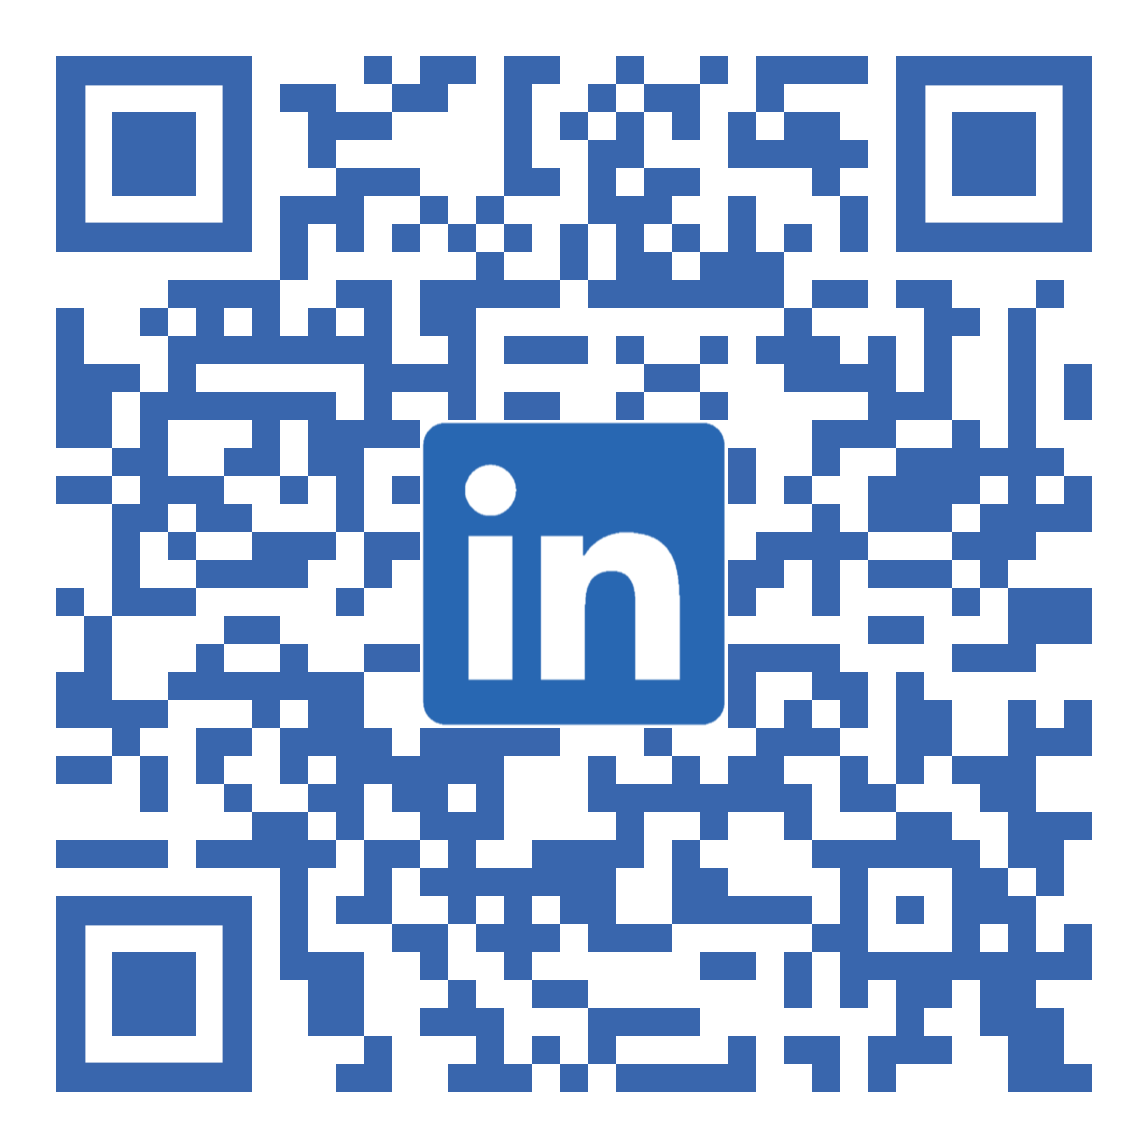
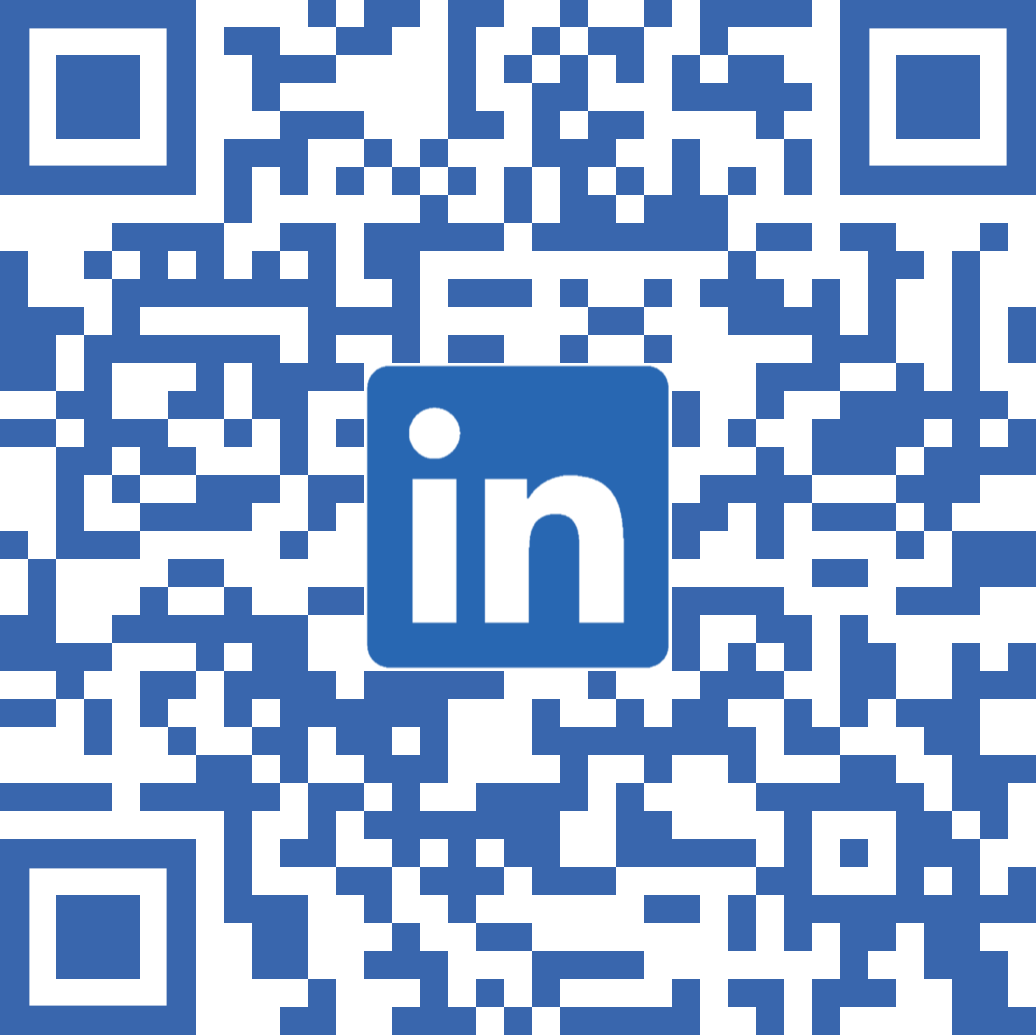
adding feedback slide

diff --git a/sag-2026/index.html b/sag-2026/index.html
@@ -1,5 +1,5 @@
 
-<!-- Do not edit by hand! Generated by Hotspot on 2026-11-11T10:45:22.504+01:00. Edit the source XML document instead! --><!DOCTYPE html
+<!-- Do not edit by hand! Generated by Hotspot on 2026-11-11T19:04:30.033+01:00. Edit the source XML document instead! --><!DOCTYPE html
   PUBLIC "-//W3C//DTD XHTML 1.0 Transitional//EN" "http://www.w3.org/TR/xhtml1/DTD/xhtml1-transitional.dtd">
 <html xmlns="http://www.w3.org/1999/xhtml">
    <head>
@@ -54,7 +54,8 @@
       <link rel="bookmark" href="javascript:Kilauea.instances[0].showSlide(31)" title="How Much Is Left to the Model?" />
       <link rel="bookmark" href="javascript:Kilauea.instances[0].showSlide(32)" title="Solution Architecture Is Only Part of It" />
       <link rel="bookmark" href="javascript:Kilauea.instances[0].showSlide(34)" title="Monday Tasks" />
-      <link rel="bookmark" href="javascript:Kilauea.instances[0].showSlide(35)" title="Thank You!" />
+      <link rel="bookmark" href="javascript:Kilauea.instances[0].showSlide(35)" title="Please Rate This Session" />
+      <link rel="bookmark" href="javascript:Kilauea.instances[0].showSlide(36)" title="Thank You!" />
       <link rel="alternate" href="sag.xml" title="XML" />
       <link rel="help" title="Quick Help" href="javascript:Kilauea.instances[0].help()" /><script type="text/javascript" src="hotspot/kilauea/kilauea.js"></script><script type="text/javascript">Kilauea.init({'#body': {titleSeparator: ' ; ', settings: {showToolbar: true, coupleFooter: true, stackBackgrounds: true}, plugins: {touch: {}}}});</script></head>
    <body>
@@ -169,7 +170,9 @@
                <ul>
                   <li class="slide-entry"><span class="slidenum">35</span>Monday Tasks
                   </li>
-                  <li class="slide-entry"><span class="slidenum">36</span>Thank You!
+                  <li class="slide-entry"><span class="slidenum">36</span>Please Rate This Session
+                  </li>
+                  <li class="slide-entry"><span class="slidenum">37</span>Thank You!
                   </li>
                </ul>
             </li>
@@ -202,7 +205,7 @@
                </li>
                <li><a href="#moving-the-line" title="go to part &#34;Moving the Line&#34;">Moving the Line</a> [2]
                </li>
-               <li><a href="#conclusions" title="go to part &#34;Conclusions&#34;">Conclusions</a> [2]
+               <li><a href="#conclusions" title="go to part &#34;Conclusions&#34;">Conclusions</a> [3]
                </li>
             </ol>
          </div>
@@ -309,7 +312,7 @@
                </li>
                <li><a href="#moving-the-line" title="go to part &#34;Moving the Line&#34;">Moving the Line</a> [2]
                </li>
-               <li><a href="#conclusions" title="go to part &#34;Conclusions&#34;">Conclusions</a> [2]
+               <li><a href="#conclusions" title="go to part &#34;Conclusions&#34;">Conclusions</a> [3]
                </li>
             </ol>
          </div>
@@ -444,7 +447,7 @@
                <li class="expand outline-current">A Small Experiment [13]</li>
                <li><a href="#moving-the-line" title="go to part &#34;Moving the Line&#34;">Moving the Line</a> [2]
                </li>
-               <li><a href="#conclusions" title="go to part &#34;Conclusions&#34;">Conclusions</a> [2]
+               <li><a href="#conclusions" title="go to part &#34;Conclusions&#34;">Conclusions</a> [3]
                </li>
             </ol>
          </div>
@@ -684,7 +687,7 @@ content:
                <li><a href="#experiment" title="go to part &#34;A Small Experiment&#34;">A Small Experiment</a> [13]
                </li>
                <li class="expand outline-current">Moving the Line [2]</li>
-               <li><a href="#conclusions" title="go to part &#34;Conclusions&#34;">Conclusions</a> [2]
+               <li><a href="#conclusions" title="go to part &#34;Conclusions&#34;">Conclusions</a> [3]
                </li>
             </ol>
          </div>
@@ -725,7 +728,7 @@ content:
                </li>
                <li><a href="#moving-the-line" title="go to part &#34;Moving the Line&#34;">Moving the Line</a> [2]
                </li>
-               <li class="expand outline-current">Conclusions [2]</li>
+               <li class="expand outline-current">Conclusions [3]</li>
             </ol>
          </div>
          <div class="slide" id="monday">
@@ -742,6 +745,15 @@ content:
                <li>Modularize by subproblem, so that you can move the line later</li>
                <li>Invest in the APIs and data that everything else has to reach</li>
             </ul><br /><br /></div>
+         <div class="slide" id="feedback">
+            <div class="printheader only-media-print">
+               			<span class="part">Conclusions</span>
+               			<span class="author"><span class="vcard"><span class="fn n"><span class="given-name">Erik</span> <span class="family-name">Wilde</span></span></span>: </span>
+               			<span class="presentation">Composable Architecture for AI Systems: APIs, MCP, Skills, Sub-Agents, and Workflows</span> 
+               		
+            </div>
+            <h1><span class="only-media-print printslidenum">(36)</span> Please Rate This Session
+            </h1><a class="img" title="https://eventmobi.com/sag2026/agenda/dc38d7e7-597e-47e2-b755-e4315ef633ec/session/1cbbe137-b690-4e46-99ff-1569f4a63594" href="https://eventmobi.com/sag2026/agenda/dc38d7e7-597e-47e2-b755-e4315ef633ec/session/1cbbe137-b690-4e46-99ff-1569f4a63594"><img src="img/qr-code-session-feedback.png" class="fullsize" alt="qr-code-session-feedback.png" /></a><br /><br /></div>
          <div class="slide" id="agent-thanks">
             <div class="printheader only-media-print">
                			<span class="part">Conclusions</span>
@@ -749,7 +761,7 @@ content:
                			<span class="presentation">Composable Architecture for AI Systems: APIs, MCP, Skills, Sub-Agents, and Workflows</span> 
                		
             </div>
-            <h1><span class="only-media-print printslidenum">(36)</span> Thank You!
+            <h1><span class="only-media-print printslidenum">(37)</span> Thank You!
             </h1><img src="img/end.jpg" title="This is the End" style="float: right ; height : 65% ; margin : 0% 4% 4% 4% ; filter: drop-shadow(0px 0px 10px rgba(0,0,0,0.6)) ; " alt="This is the End" /><ul>
                <li><a class="extra " href="https://www.youtube.com/ErikWilde" title="https://www.youtube.com/ErikWilde"><img src="img/youtube-logo.png" style=" height : 1em ; " alt="youtube-logo.png" /> <code>youtube.com/ErikWilde</code></a><span class="print-href"> [https://www.youtube.com/ErikWilde]</span></li>
                <li><a class="extra " href="https://www.linkedin.com/in/erikwilde" title="https://www.linkedin.com/in/erikwilde"><img src="img/linkedin-logo.png" style=" height : 1em ; " alt="linkedin-logo.png" /> <code>linkedin.com/in/erikwilde</code></a><span class="print-href"> [https://www.linkedin.com/in/erikwilde]</span></li>
